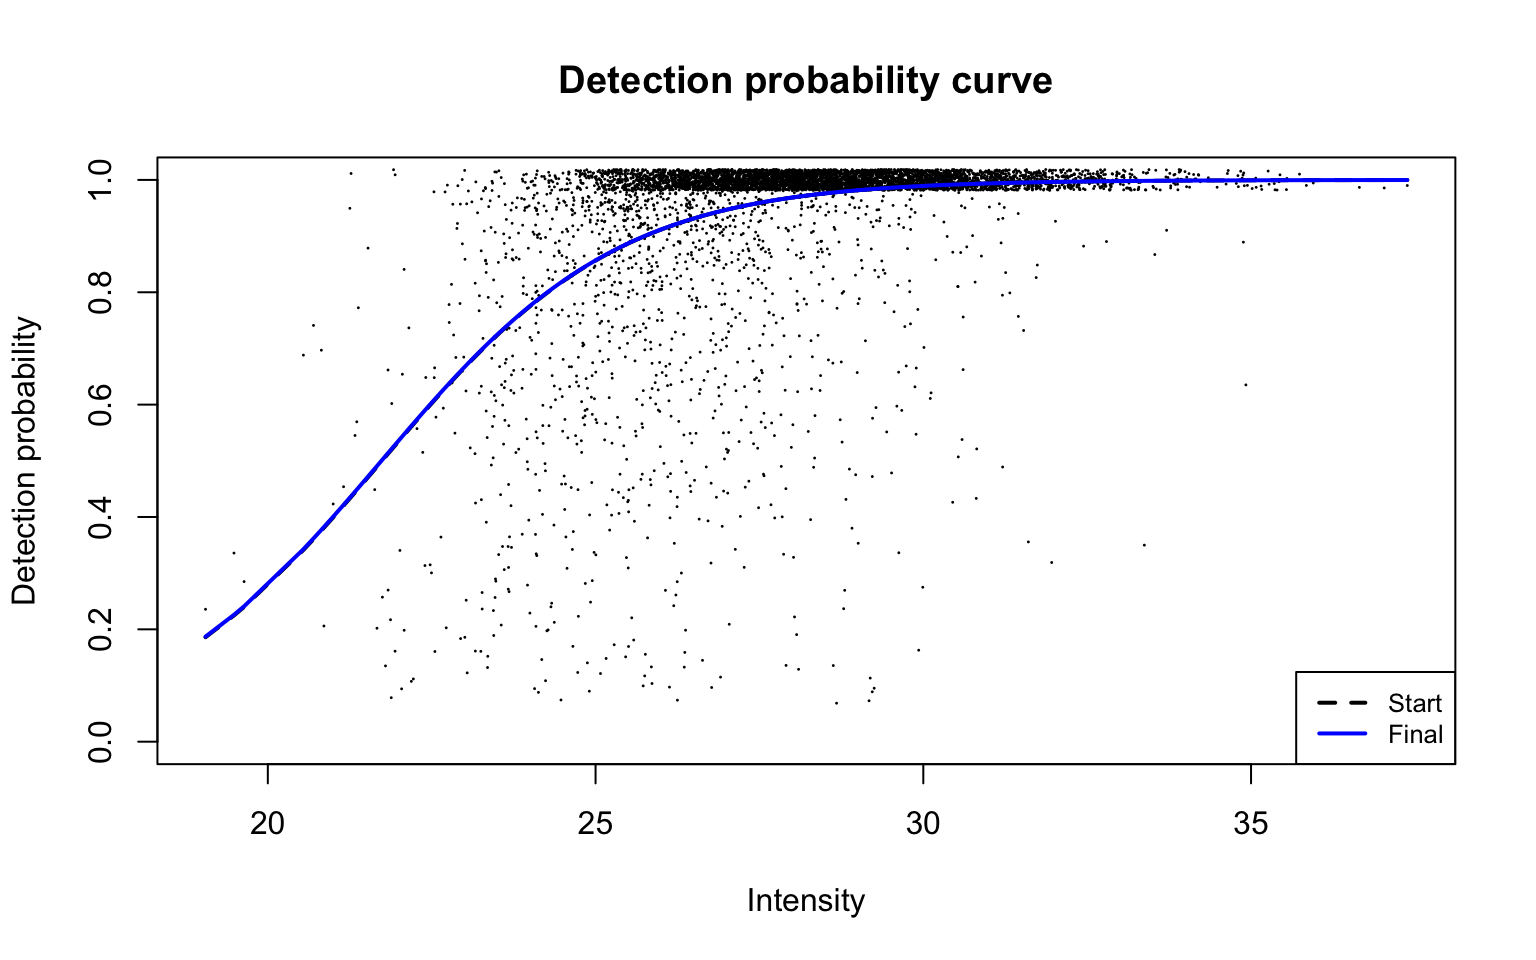
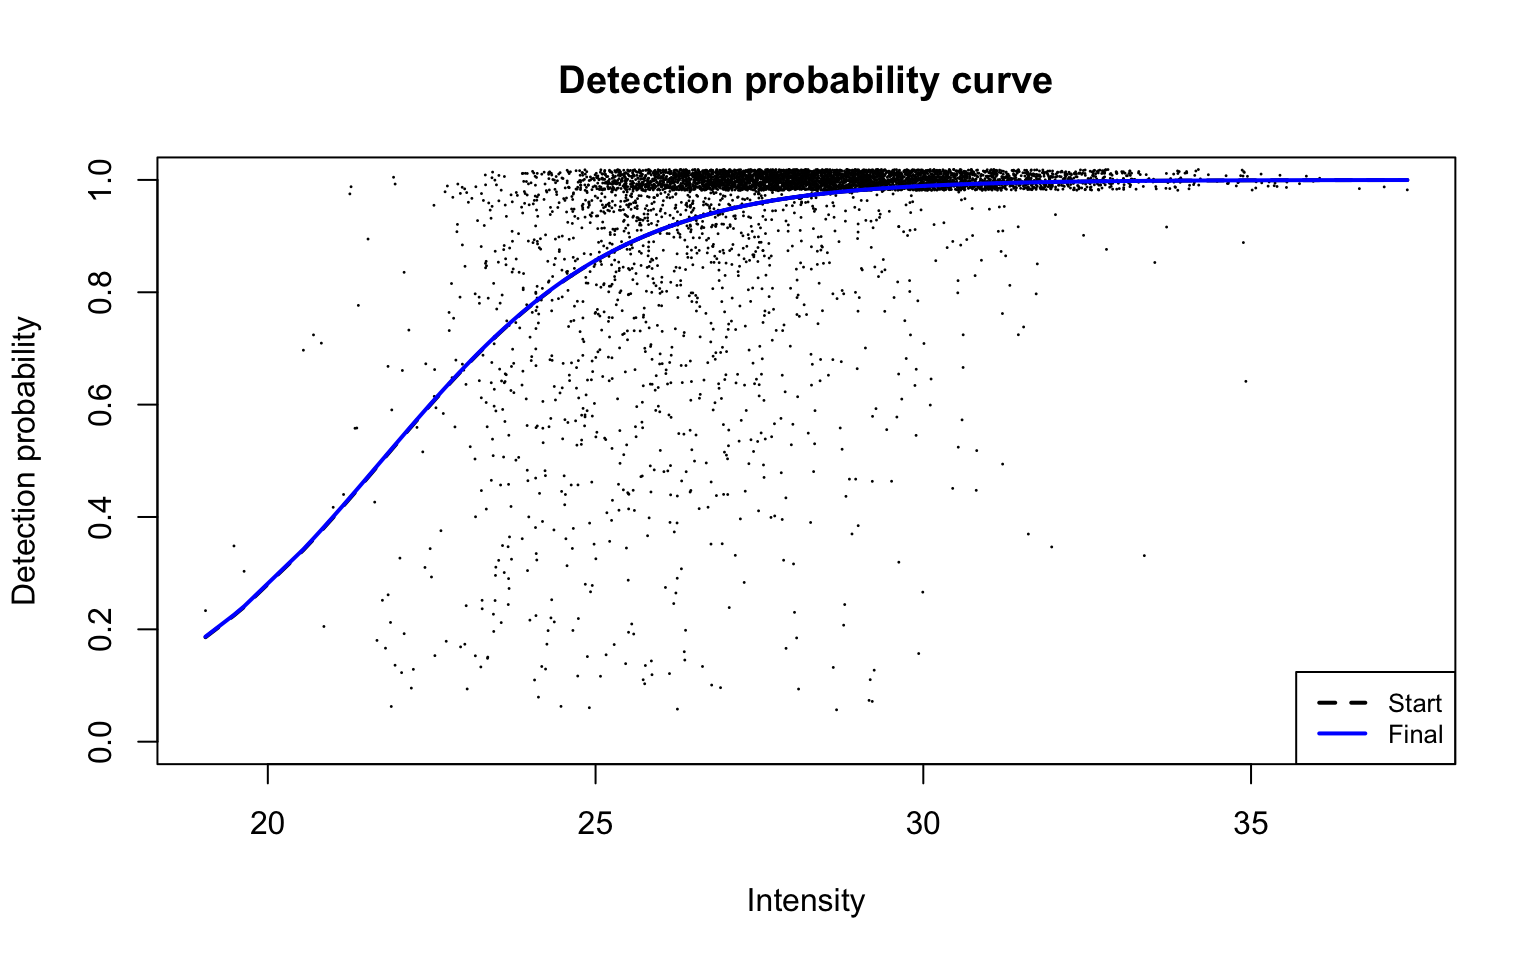
Allow variable b1.upper in gatherResults

diff --git a/docs/articles/supp.html b/docs/articles/supp.html
@@ -187,7 +187,7 @@ groups. The log2-transformation is first applied to LFQ intensities.</p>
 <h3 id="empirical-logistic-splines-for-detected-proportions-1">Empirical logistic splines for detected proportions<a class="anchor" aria-label="anchor" href="#empirical-logistic-splines-for-detected-proportions-1"></a>
 </h3>
 <div class="sourceCode" id="cb12"><pre class="downlit sourceCode r">
-<code class="sourceCode R"><span class="va">scProt</span> <span class="op">&lt;-</span> <span class="fu"><a href="../reference/gatherResults.html">gatherResults</a></span><span class="op">(</span><span class="va">dat</span><span class="op">)</span>
+<code class="sourceCode R"><span class="va">scProt</span> <span class="op">&lt;-</span> <span class="fu"><a href="../reference/gatherResults.html">gatherResults</a></span><span class="op">(</span><span class="va">dat</span>, b1.upper <span class="op">=</span> <span class="cn">Inf</span><span class="op">)</span>
 <span class="kw">for</span> <span class="op">(</span><span class="va">i</span> <span class="kw">in</span> <span class="fl">1</span><span class="op">:</span><span class="fu"><a href="https://rdrr.io/r/base/length.html" class="external-link">length</a></span><span class="op">(</span><span class="va">dfList</span><span class="op">)</span><span class="op">)</span> <span class="op">{</span>
     <span class="kw">if</span> <span class="op">(</span><span class="va">i</span> <span class="op">==</span> <span class="fl">1</span><span class="op">)</span>
         <span class="fu"><a href="../reference/plotEmpSplines.html">plotEmpSplines</a></span><span class="op">(</span><span class="va">scProt</span><span class="op">$</span><span class="va">nuis</span>, X <span class="op">=</span> <span class="va">scProt</span><span class="op">$</span><span class="va">splineFits_params0</span><span class="op">[[</span><span class="va">i</span><span class="op">]</span><span class="op">]</span><span class="op">$</span><span class="va">X</span>,
@@ -231,11 +231,10 @@ groups. The log2-transformation is first applied to LFQ intensities.</p>
 intensities<a class="anchor" aria-label="anchor" href="#detection-probability-curve-assuming-normal-observed-intensities-1"></a>
 </h3>
 <div class="sourceCode" id="cb16"><pre class="downlit sourceCode r">
-<code class="sourceCode R"><span class="va">scProt_dpcFit</span> <span class="op">&lt;-</span> <span class="fu"><a href="../reference/dpc.html">dpc</a></span><span class="op">(</span>nuis <span class="op">=</span> <span class="va">scProt</span><span class="op">$</span><span class="va">nuis</span>, b1.upper <span class="op">=</span> <span class="cn">Inf</span><span class="op">)</span>
-<span class="fu"><a href="../reference/plotDPC.html">plotDPC</a></span><span class="op">(</span><span class="va">scProt</span><span class="op">$</span><span class="va">nuis</span>, <span class="va">scProt_dpcFit</span>, add.jitter <span class="op">=</span> <span class="cn">FALSE</span>, point.cex <span class="op">=</span> <span class="fl">0.15</span><span class="op">)</span></code></pre></div>
+<code class="sourceCode R"><span class="fu"><a href="../reference/plotDPC.html">plotDPC</a></span><span class="op">(</span><span class="va">scProt</span><span class="op">$</span><span class="va">nuis</span>, <span class="va">scProt</span><span class="op">$</span><span class="va">dpcFit</span>, add.jitter <span class="op">=</span> <span class="cn">FALSE</span>, point.cex <span class="op">=</span> <span class="fl">0.15</span><span class="op">)</span></code></pre></div>
 <p><img src="supp_files/figure-html/unnamed-chunk-16-1.png" width="768"></p>
 <p>Parameters of the detection probability curve are as follows:</p>
-<div class="sourceCode" id="cb17"><pre class="sourceCode r"><code class="sourceCode r"><span id="cb17-1"><a href="#cb17-1" aria-hidden="true" tabindex="-1"></a><span class="fu">round</span>(scProt_dpcFit<span class="sc">$</span>beta, <span class="dv">2</span>)</span>
+<div class="sourceCode" id="cb17"><pre class="sourceCode r"><code class="sourceCode r"><span id="cb17-1"><a href="#cb17-1" aria-hidden="true" tabindex="-1"></a><span class="fu">round</span>(scProt<span class="sc">$</span>dpcFit<span class="sc">$</span>beta, <span class="dv">2</span>)</span>
 <span id="cb17-2"><a href="#cb17-2" aria-hidden="true" tabindex="-1"></a>[<span class="dv">1</span>] <span class="sc">-</span><span class="fl">12.9</span>   <span class="fl">1.2</span></span></code></pre></div>
 <p><br><br><br><br></p>
 </div>

diff --git a/docs/reference/gatherResults.html b/docs/reference/gatherResults.html
@@ -48,7 +48,7 @@
 
     <div class="section level2">
     <h2 id="ref-usage">Usage<a class="anchor" aria-label="anchor" href="#ref-usage"></a></h2>
-    <div class="sourceCode"><pre class="sourceCode r"><code><span class="fu">gatherResults</span><span class="op">(</span><span class="va">data</span><span class="op">)</span></code></pre></div>
+    <div class="sourceCode"><pre class="sourceCode r"><code><span class="fu">gatherResults</span><span class="op">(</span><span class="va">data</span>, b1.upper <span class="op">=</span> <span class="fl">1</span><span class="op">)</span></code></pre></div>
     </div>
 
     <div class="section level2">
@@ -56,6 +56,9 @@
     <dl><dt>data</dt>
 <dd><p>The log2-transformed intensity matrix where rows are precursors
 and columns are samples.</p></dd>
+<dt>b1.upper</dt>
+<dd><p>Upper bound for beta_1 when fitting the detection probability
+curve. Typically 1.</p></dd>
 </dl></div>
     <div class="section level2">
     <h2 id="value">Value<a class="anchor" aria-label="anchor" href="#value"></a></h2>
